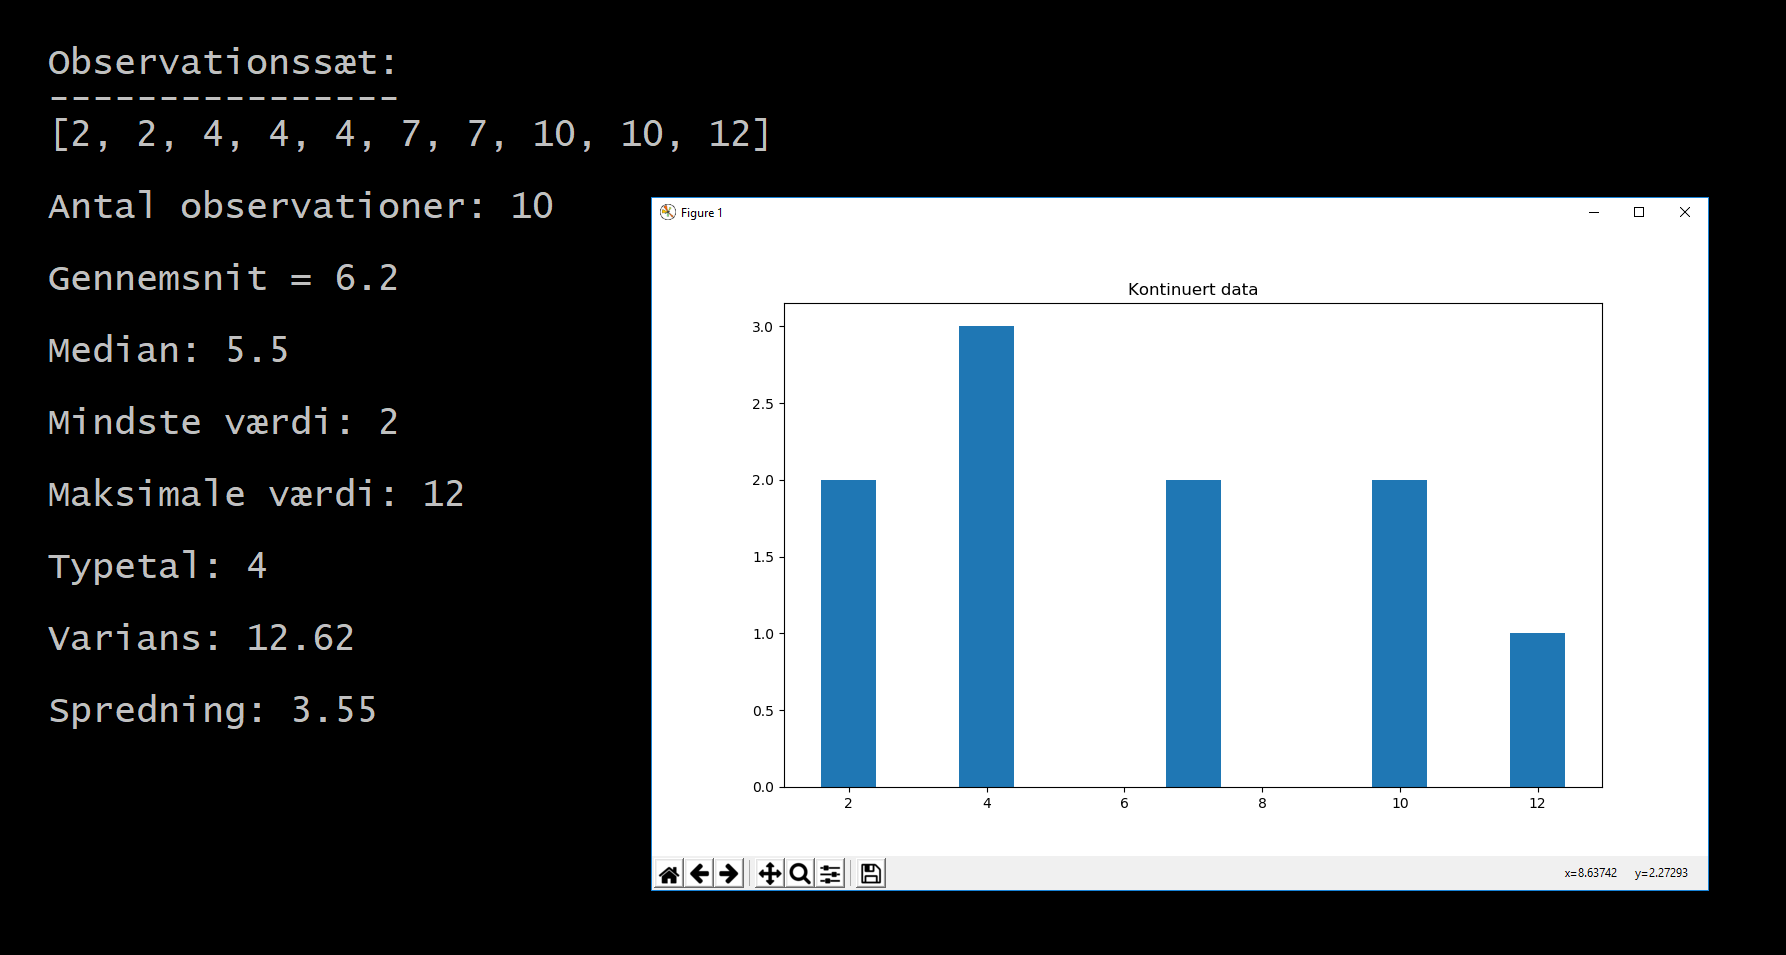
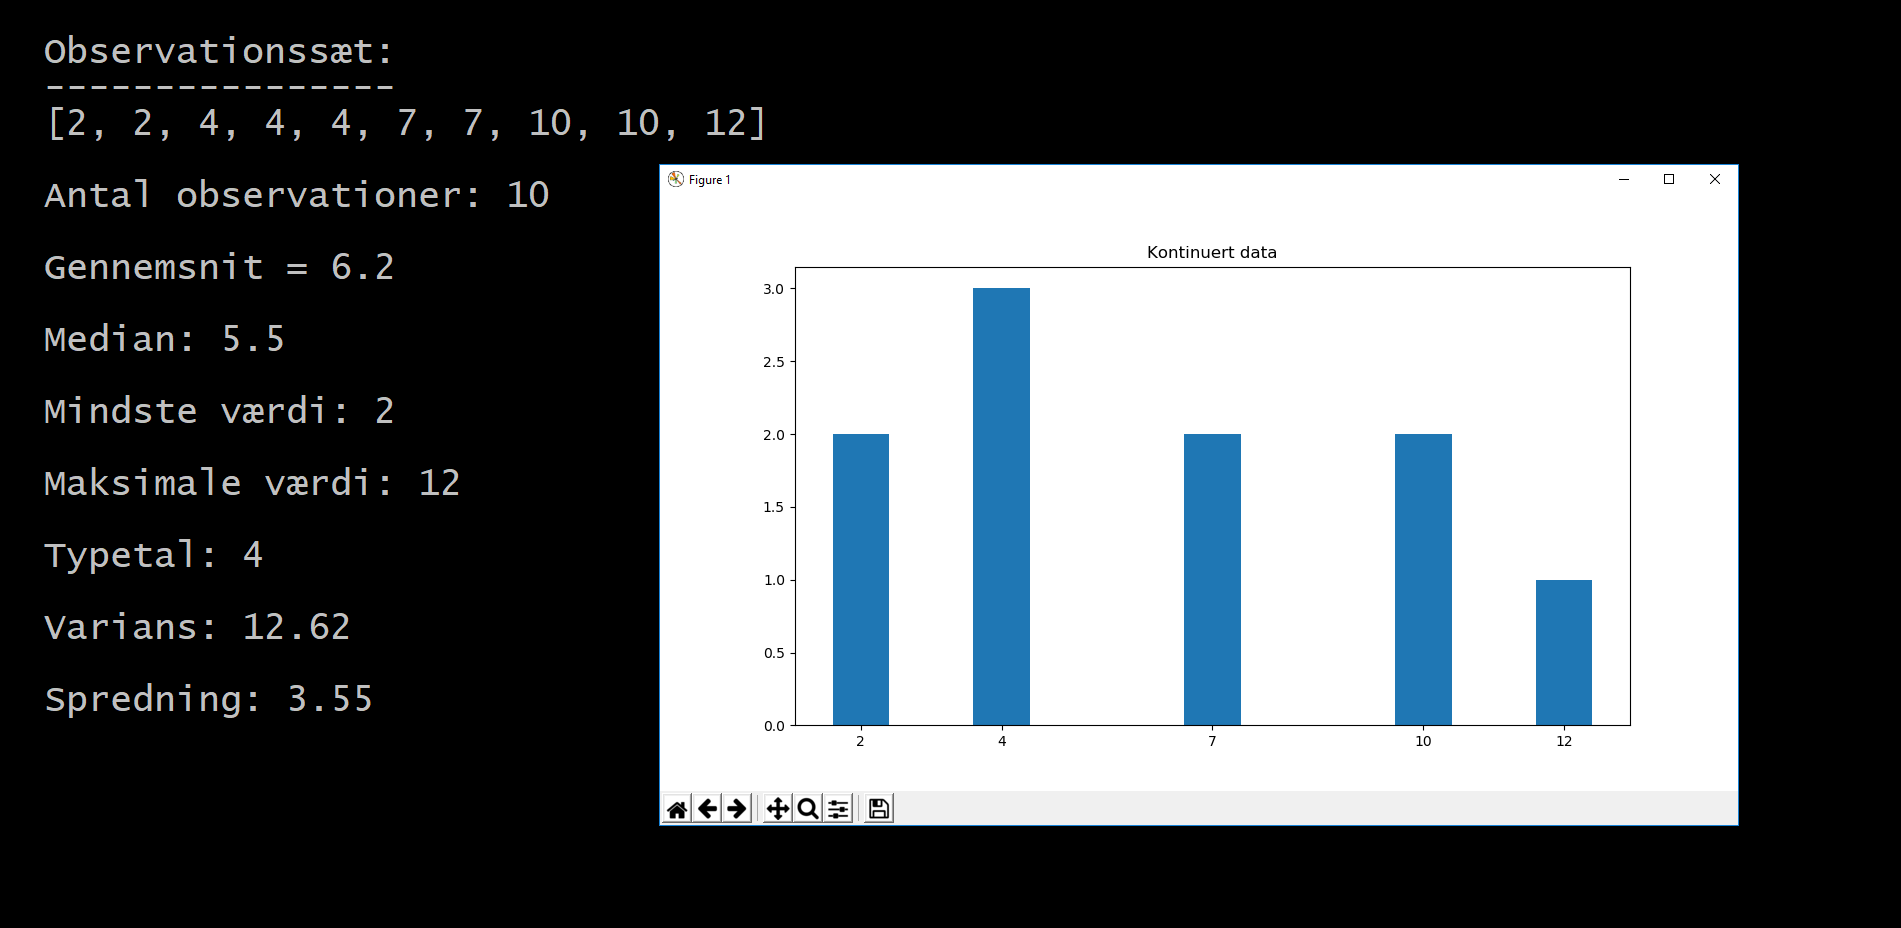
1

diff --git a/python/python09_statistik.html b/python/python09_statistik.html
@@ -1,7 +1,7 @@
 <!DOCTYPE html>
 <html lang="da">
 <head>
-  <title>Python: plot</title>
+  <title>Python: Statistik</title>
   <link rel="icon" href="../images/favicon.png">
   <meta charset="utf-8">
   <meta name="viewport" content="width=device-width, initial-scale=1">
@@ -240,9 +240,9 @@ import numpy as np
 
 x = [2, 2, 4, 4, 4, 7, 7, 10, 10, 12]
 
-print("Datasæt: {0}\n".format(x))
+print("Observationssæt: \n----------------\n{0}".format(x))
 
-print("Percentilsæt")
+print("Percentilsæt:")
 
 for i in range(10,101,10):
 
@@ -251,9 +251,11 @@ for i in range(10,101,10):
 </pre>
 
 <pre class="black">
-Datasæt: [2, 2, 4, 4, 4, 7, 7, 10, 10, 12]
+Observationssæt
+---------------
+[2, 2, 4, 4, 4, 7, 7, 10, 10, 12]
 
-Percentilsæt
+Percentilsæt:
 Værden for den 10. percentil er: 2.0
 Værden for den 20. percentil er: 3.6
 Værden for den 30. percentil er: 4.0
@@ -329,7 +331,7 @@ Værden for den 100. percentil er: 12.0
 		x_unik_antal.append(x.count(i))
 		
 	#plotfunktionen
-
+	plt.xticks(x_unik, x_unik) 
 	plt.bar(x_unik,x_unik_antal, width=0.8)
 	plt.title("Kontinuert data")
 	plt.show()
@@ -406,6 +408,7 @@ Værden for den 100. percentil er: 12.0
 		x_unik_antal.append(x_ny.count(i))
 		
 	#plotfunktionen
+	plt.xticks(x_unik, x_unik) 
 	plt.bar(x_unik,x_unik_antal, width=0.8)
 	plt.title("Kontinuert data")
 	plt.show()

diff --git a/python/programmer/Valg og funktioner/Egne funktioner/kontinuert_data.py b/python/programmer/Valg og funktioner/Egne funktioner/kontinuert_data.py
@@ -47,8 +47,10 @@ x_unik = np.unique(x_ny)
 x_unik_antal = []
 for i in x_unik:
 	x_unik_antal.append(x_ny.count(i))
-	
+
+
 #plotfunktionen
+plt.xticks(x_unik, x_unik) 
 plt.bar(x_unik,x_unik_antal, width=5)
 plt.title("Kontinuert data")
 plt.show()

diff --git a/python/programmer/Valg og funktioner/Egne funktioner/diskret_data2.py b/python/programmer/Valg og funktioner/Egne funktioner/diskret_data2.py
@@ -43,7 +43,7 @@ for i in x_unik:
 	x_unik_antal.append(x.count(i))
 	
 #plotfunktionen
-
+plt.xticks(x_unik, x_unik)
 plt.bar(x_unik,x_unik_antal, width=0.8)
 plt.title("Kontinuert data")
 plt.show()
